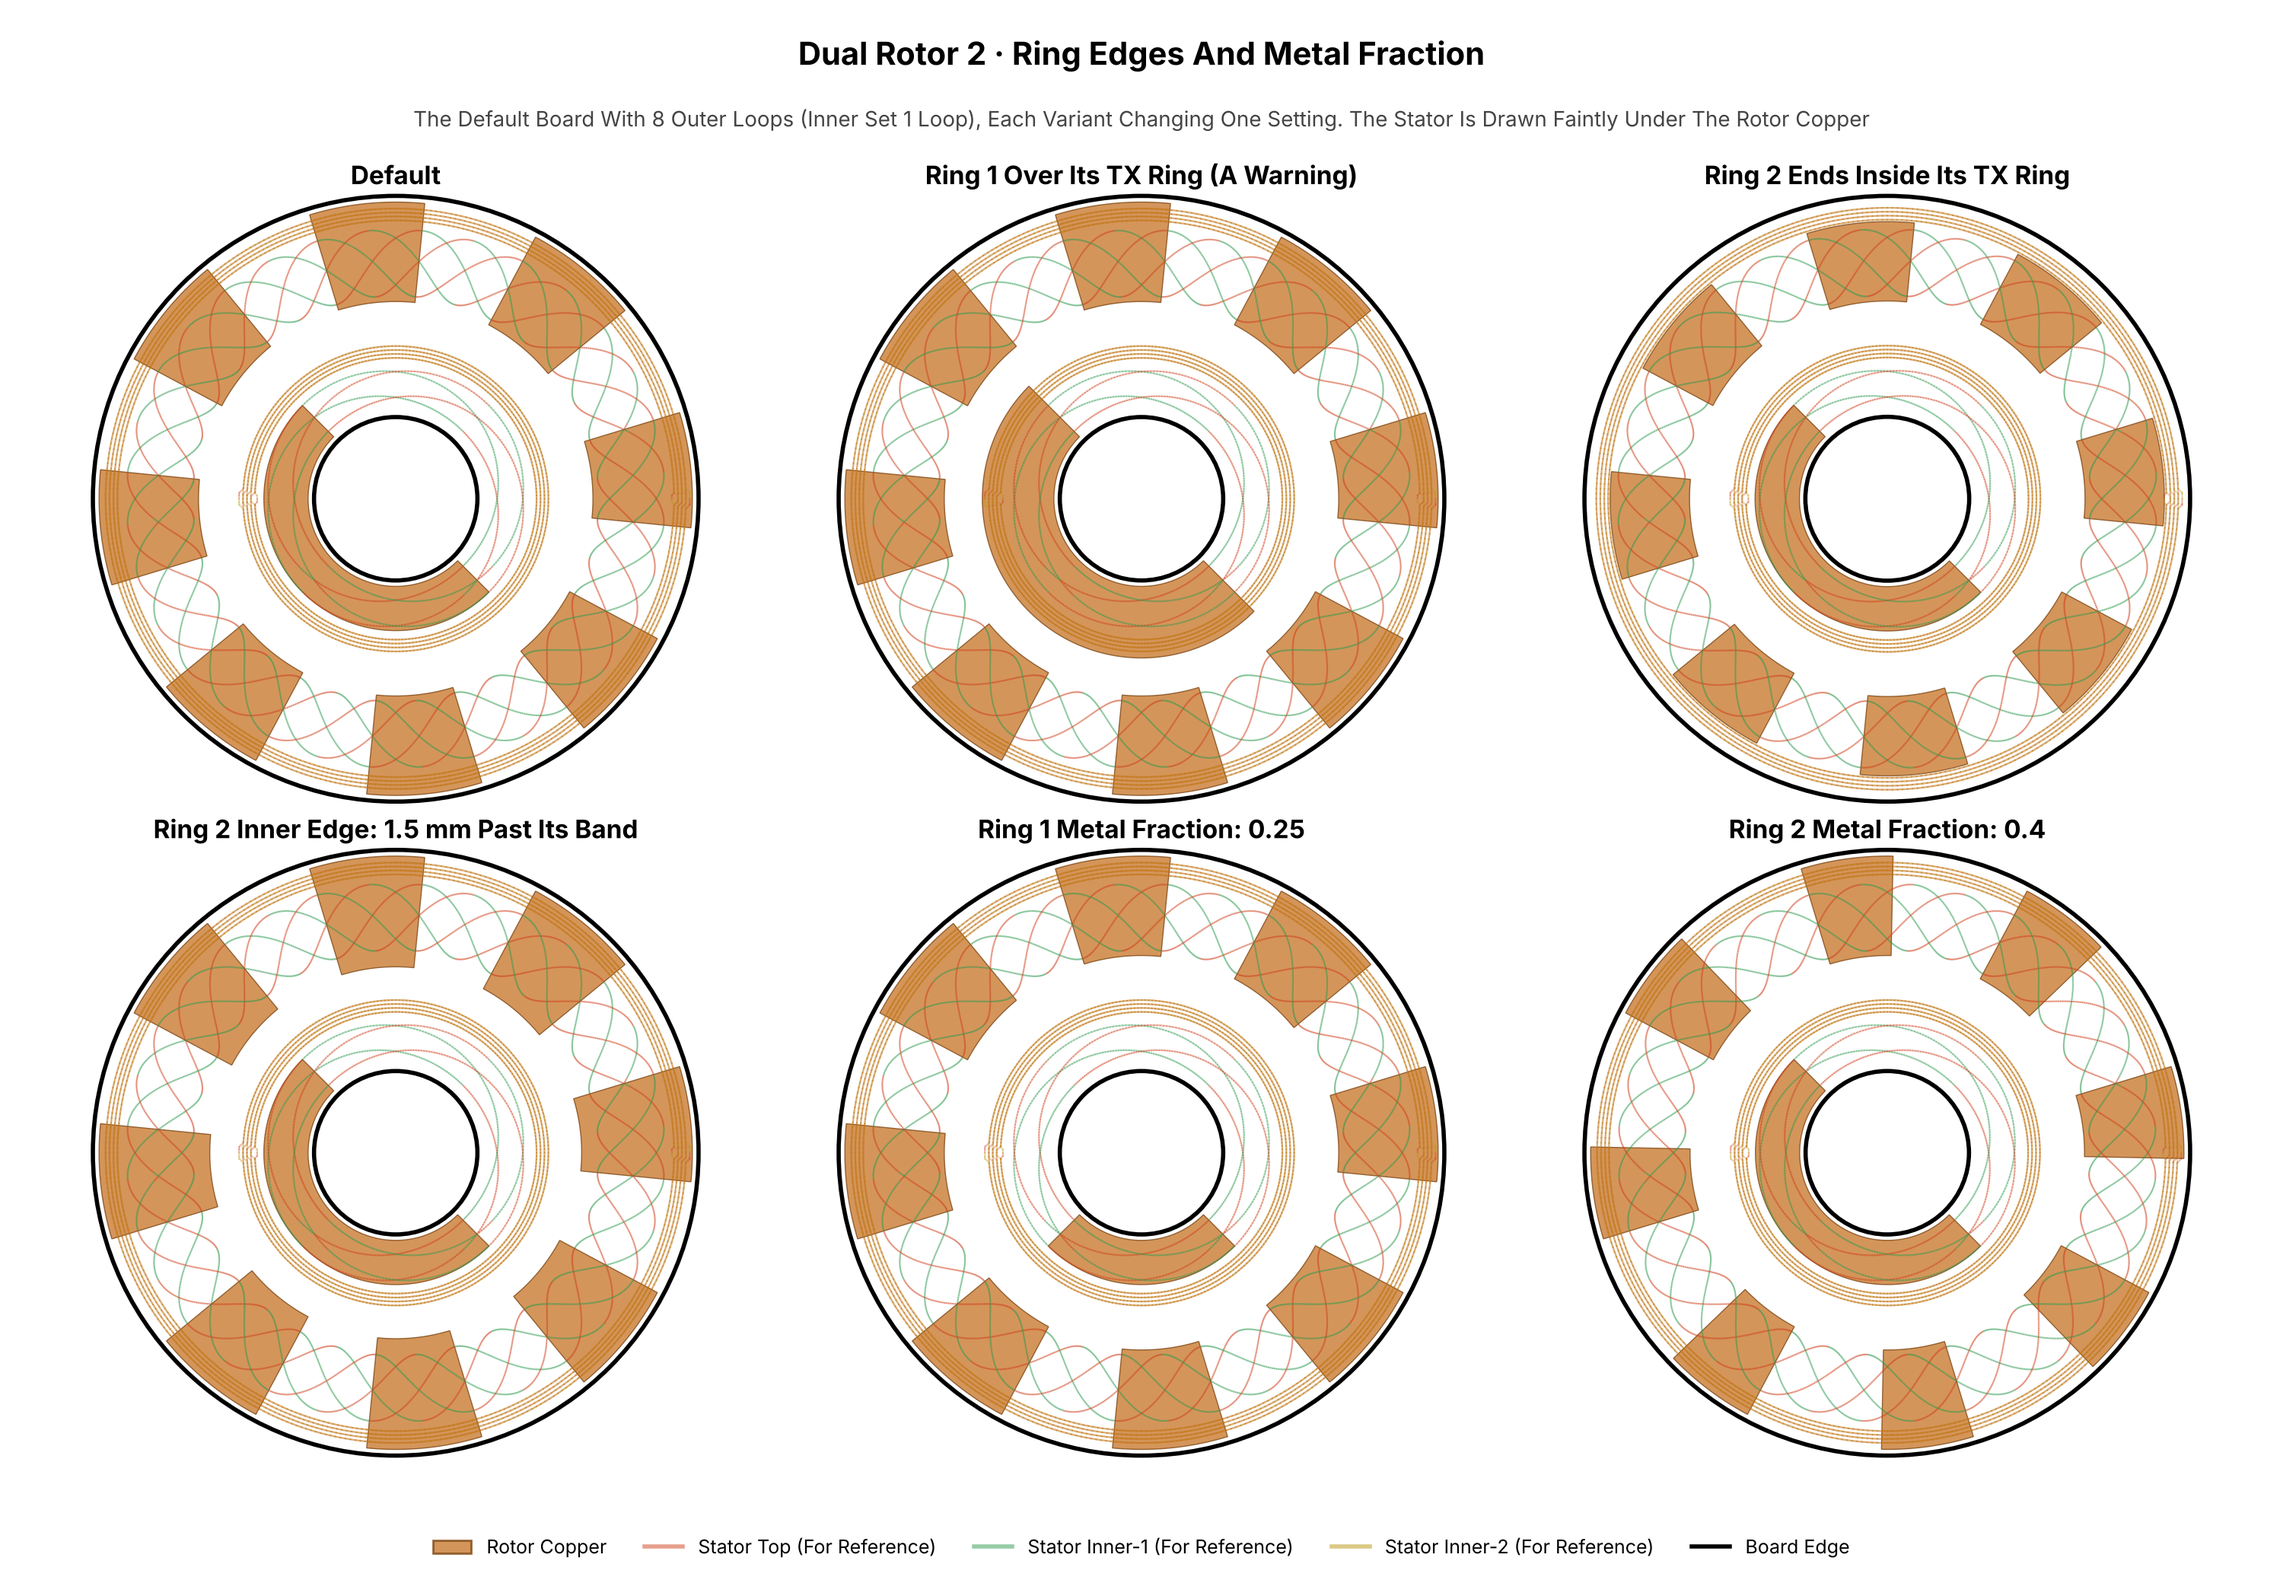
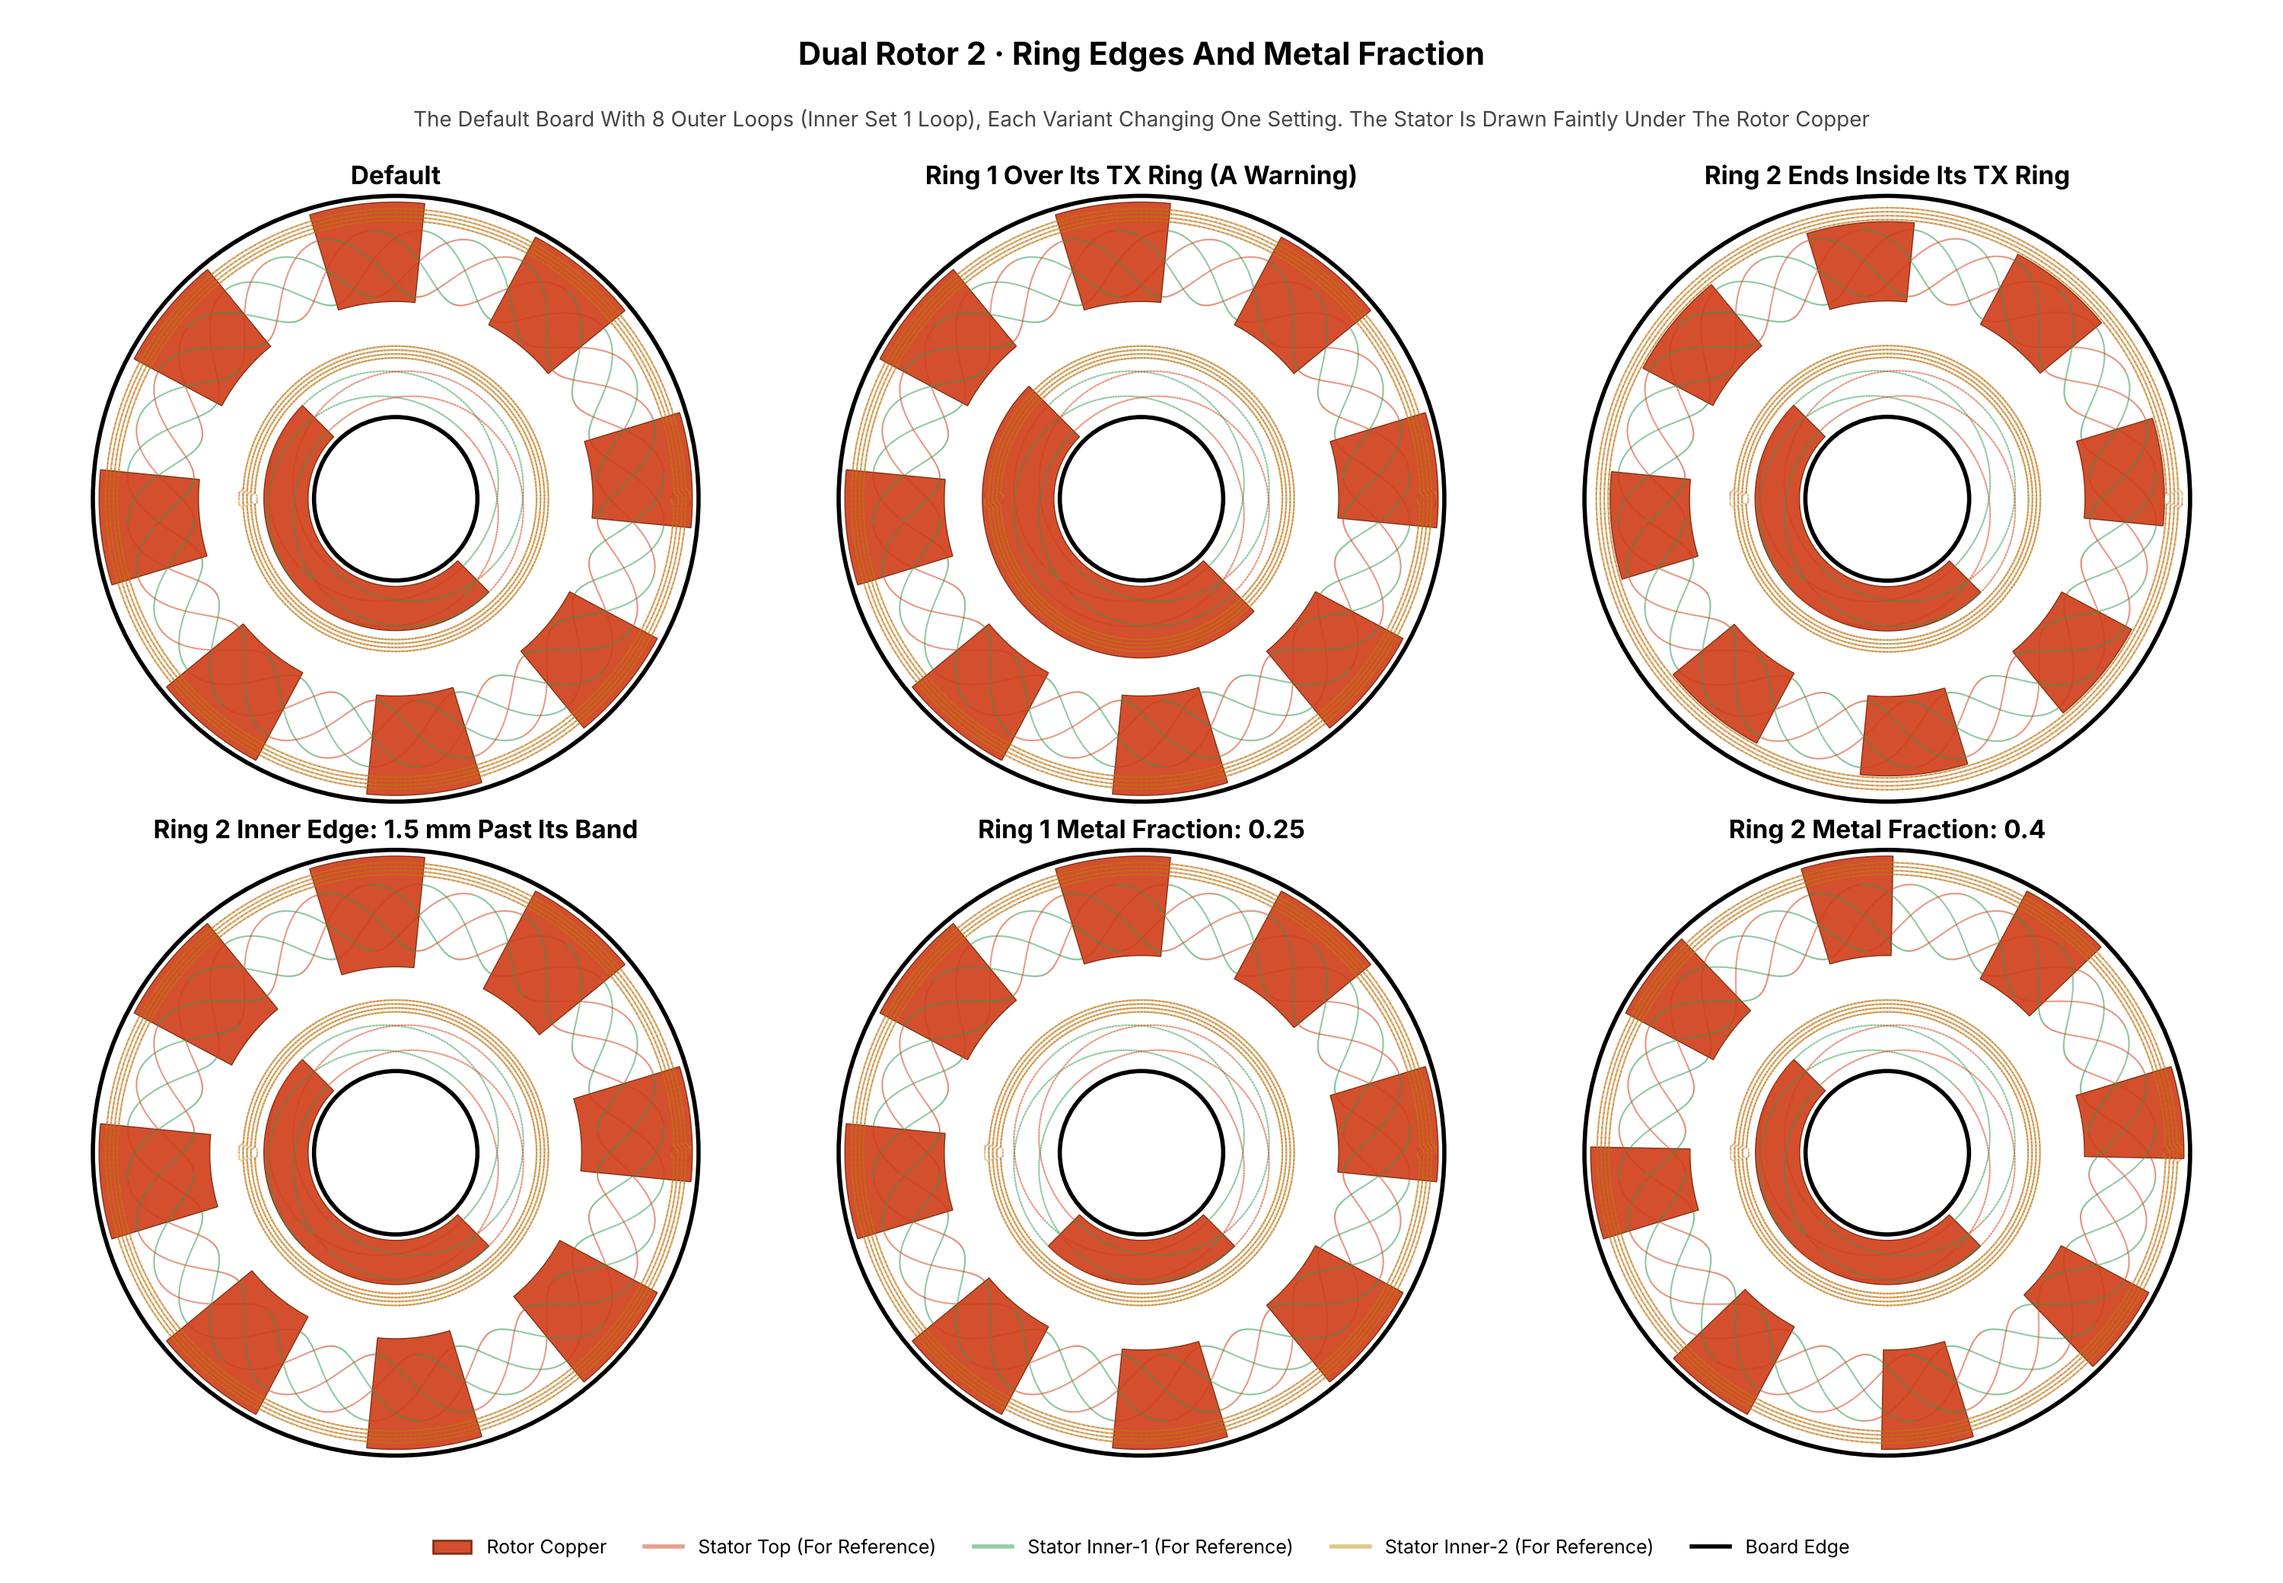
Red rotor copper in the pictures; Dual Generator in the licenses
- Rotor copper is drawn in red, the colour of the Top layer it is on, in
  every picture that showed it orange: Rotor 1 and 2, Dual Rotor 1 and 2,
  Dual Board 1 (its stator bars are now grey, since each coil spans two
  layers), Introduction 1 and 2, and Analysis 1.
- LICENSE.md and the wiki License page name the Dual Generator, the
  regression tests and resources/ as code under PolyForm Noncommercial,
  and the output term covers both generators.
- MILESTONES.md: milestone 2 (the dual board rotary generator) is done.

diff --git a/LICENSE.md b/LICENSE.md
@@ -8,12 +8,12 @@ This repository is **open for research use**, and free for non-commercial use. R
 
 | License | Full Text | Covers | Where |
 |---|---|---|---|
-| **PolyForm Noncommercial 1.0.0** | [PolyForm-Noncommercial-1.0.0](PolyForm-Noncommercial-1.0.0) | The source code: the generator, its parameter files and the analyser and optimizer | `Single Generator/` (`Generator/`, `Parameters/`) on `main`; the `analyser_and_optimizer` branch |
+| **PolyForm Noncommercial 1.0.0** | [PolyForm-Noncommercial-1.0.0](PolyForm-Noncommercial-1.0.0) | The source code: the Single Generator and the Dual Generator with their parameter files and regression tests, the shared files in `resources/`, and the analyser and optimizer | `Single Generator/` (`Generator/`, `Parameters/`, `Regression Testing/`), `Dual Generator/` (`Dual_Generator/`, `Parameters/`, `Regression Testing/`) and `resources/` on `main`; the `analyser_and_optimizer` branch |
 | **CC BY-NC-SA 4.0** | [CC-BY-NC-SA-4.0](CC-BY-NC-SA-4.0) | The pictures and the documentation | `docs/images/` (except the Web UI pictures), `docs/wiki/`, `README.md`, `CONTRIBUTING.md` |
 | **PolyForm Strict 1.0.0** | [PolyForm-Strict-1.0.0](PolyForm-Strict-1.0.0) | The Web UI and every aspect of it: its code, the workflow that publishes it, every page where the author publishes it, and its design (layout, look and feel, colours, panels, controls, icons, wording, help texts, and pictures and recordings of it) | `WebGUI/` and `.github/workflows/WebGUI-Pages.yml` on the `WebUI` branch, the published Web Tool, `docs/images/webui_*.png`; its own notice is `WebGUI/LICENSE.md` |
 
-The Web UI runs the generator unchanged. The generator, its pictures and its documentation stay under their own
-licenses above, not under the Web UI's.
+The Web UI runs the Single Generator unchanged. The generators, their pictures and their documentation stay under
+their own licenses above, not under the Web UI's.
 
 ## What Each License Allows
 
@@ -25,7 +25,7 @@ licenses above, not under the Web UI's.
 
 ## Output Of The Generator
 
-Everything the generator, the analyser or the Web UI produces is covered by this section: the KiCad files, board
+Everything the Single Generator, the Dual Generator, the analyser or the Web UI produces is covered by this section: the KiCad files, board
 layouts, Gerber and drill files, parameter records, reports, pictures and any other file made from them, whole or in
 part, and any board manufactured from them. **No output may be used commercially**: not sold, not offered for sale,
 not built into a product or service, not used inside a company or startup for its business, and not manufactured for
@@ -33,7 +33,7 @@ a customer, in each case unless you are a commercial user who has accepted the c
 permission from the author. Output may be used and shared for
 non-commercial research, study, education and personal use. When you share output, keep the attribution and say that it
 was made with the Sinusoidal Coil Generator, with a link to this repository. This is an additional term of this
-project. It applies to anyone who uses the generator or the Web UI, and using them means accepting it.
+project. It applies to anyone who uses the generators or the Web UI, and using them means accepting it.
 
 ## Commercial Use
 

diff --git a/docs/wiki/License.md b/docs/wiki/License.md
@@ -5,7 +5,7 @@ content, an extra term on everything the tool produces (32.1), and commercial te
 
 | Content | License | What it allows |
 |---|---|---|
-| Generator code (`Single Generator/`: `Generator/` and `Parameters/`, on `main`; the `analyser_and_optimizer` branch) | [PolyForm Noncommercial 1.0.0](https://polyformproject.org/licenses/noncommercial/1.0.0/) | Use, change and share, for noncommercial purposes |
+| Generator code (`Single Generator/` and `Dual Generator/` with their parameter files and regression tests, and `resources/`, on `main`; the `analyser_and_optimizer` branch) | [PolyForm Noncommercial 1.0.0](https://polyformproject.org/licenses/noncommercial/1.0.0/) | Use, change and share, for noncommercial purposes |
 | Documentation and images (`docs/images/` except the Web Tool pictures, `docs/wiki/` and this wiki, `README.md`, `CONTRIBUTING.md`) | [CC BY-NC-SA 4.0](https://creativecommons.org/licenses/by-nc-sa/4.0/) | Share and adapt with credit, noncommercial, under the same license |
 | Web Tool (`WebGUI/` and `.github/workflows/WebGUI-Pages.yml` on the `WebUI` branch, the published tool, its design, and the `docs/images/webui_*.png` pictures) | [PolyForm Strict 1.0.0](https://polyformproject.org/licenses/strict/1.0.0/) | Noncommercial use only; no changes and no redistribution |
 

diff --git a/MILESTONES.md b/MILESTONES.md
@@ -6,7 +6,7 @@ stops when every milestone below is done.
 | Serial | Milestone | Success factor |
 |---|---|---|
 | ~~1~~ | ~~Making of the single board rotary generator~~ | ~~The single generator is in the repository, runs from the parameter files and writes KiCad files that pass its own checks.~~ |
-| 2 | Making of the dual board rotary generator | The dual generator is in the repository, runs from the parameter files and writes KiCad files that pass its own checks. |
+| ~~2~~ | ~~Making of the dual board rotary generator~~ | ~~The dual generator is in the repository, runs from the parameter files and writes KiCad files that pass its own checks.~~ |
 | 3 | Making of the arc board rotary generator | The arc generator is in the repository, runs from the parameter files and writes KiCad files that pass its own checks. |
 | 4 | Making of the linear board generator | The linear generator is in the repository, runs from the parameter files and writes KiCad files that pass its own checks. |
 | 5 | Extensive testing of the single board rotary generator | Boards from the single generator are built and measured, and the results are published with the measured values and the model values side by side. |
